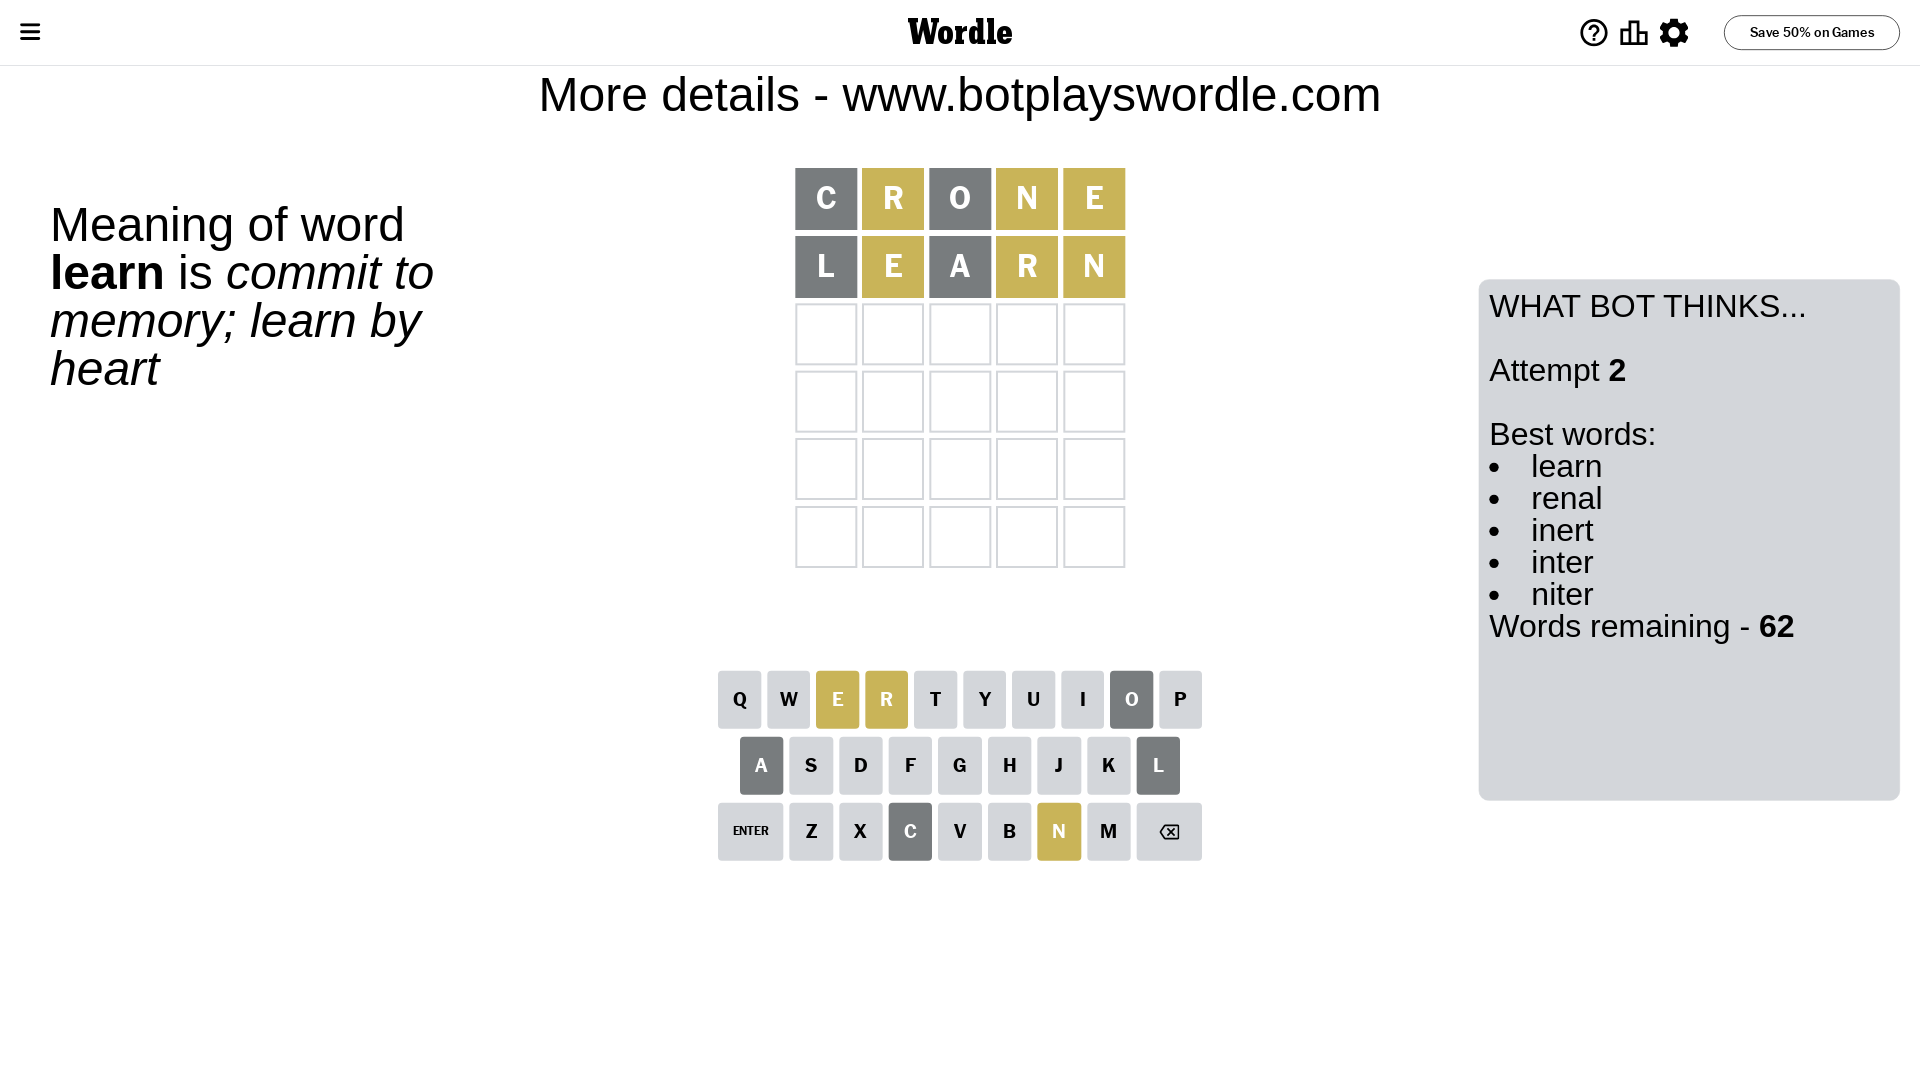
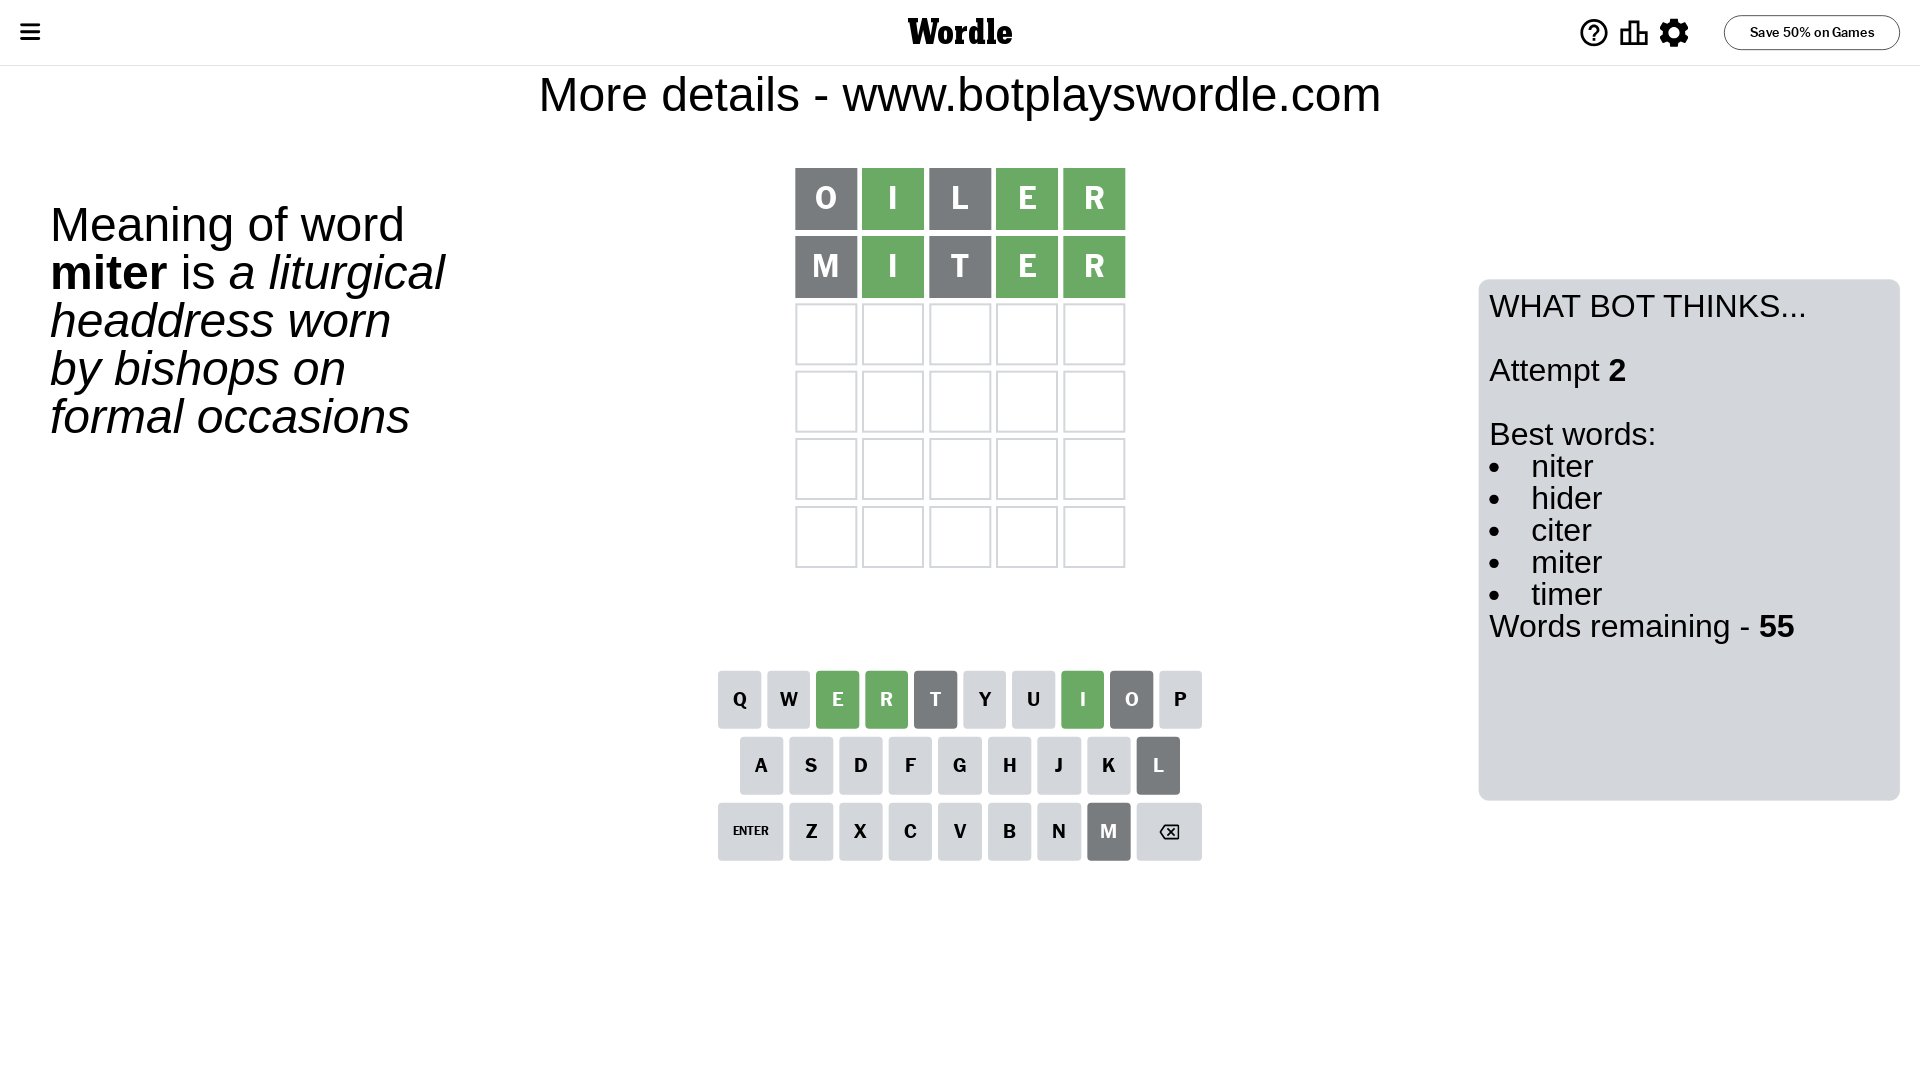
Upload new daily solution

diff --git a/_solutions/2023-06-29.md b/_solutions/2023-06-29.md
@@ -3,8 +3,8 @@ layout: solution
 title: Wordle for June 29, 2023 - \#740
 date: 2023-06-29
 solved: true
-attempts: 5
-video_link: https://youtu.be/7Ll31eo90gE
+attempts: 3
+video_link: https://youtu.be/fElTagjjyW4
 wordle_id: 740
 ---
 
@@ -14,103 +14,19 @@ wordle_id: 740
 
 This is the first attempt and we'll choose a random word to start with.
 
-Let's start with word `crone`
+Let's start with word `oiler`
 
 ![Attempt 1](2023-06-29/attempt-1.png)
 
-Attempt for `crone` gives us 0 correct letters, 3 present letters and 2 wrong letters.
+Attempt for `oiler` gives us 3 correct letters, 0 present letters and 2 wrong letters.
 
 If we look into details, we can see that:
-
-Letter `c` is not present in the word and we will not use it any more
-
-Letter `r` is on a different spot - this means that it cannot be at position 2
 
 Letter `o` is not present in the word and we will not use it any more
 
-Letter `n` is on a different spot - this means that it cannot be at position 4
-
-Letter `e` is on a different spot - this means that it cannot be at position 5
-
-Some letters are missing (like `c`, `o`) but it's also important piece of information
-
-Word should contain letters `[r n e]`
-
-That was a great guess that limited number of remaining words
-
-
-
-## Attempt 2
-
-Right now we have 62 words to choose from and best of them seem to be `[learn renal inert inter niter]`
-
-So far we know that possible letters are:
-
-At position 1: `[a b d e f g h i j k l m n p q r s t u v w x y z]`
-
-At position 2: `[a b d e f g h i j k l m n p q s t u v w x y z]`
-
-At position 3: `[a b d e f g h i j k l m n p q r s t u v w x y z]`
-
-At position 4: `[a b d e f g h i j k l m p q r s t u v w x y z]`
-
-At position 5: `[a b d f g h i j k l m n p q r s t u v w x y z]`
-
-Next guess is `learn`, let's see what it gives us
-
-![Attempt 2](2023-06-29/attempt-2.png)
-
-Attempt for `learn` gives us 0 correct letters, 3 present letters and 2 wrong letters.
-
-If we look into details, we can see that:
+Letter `i` should be at position 2
 
 Letter `l` is not present in the word and we will not use it any more
-
-Letter `e` is on a different spot - this means that it cannot be at position 2
-
-Letter `a` is not present in the word and we will not use it any more
-
-Letter `r` is on a different spot - this means that it cannot be at position 4
-
-Letter `n` is on a different spot - this means that it cannot be at position 5
-
-Some letters are missing (like `l`, `a`) but it's also important piece of information
-
-Word should contain letters `[r n e]`
-
-Could be a better guess
-
-
-
-## Attempt 3
-
-Right now we have 16 words to choose from and best of them seem to be `[inter niter tuner enter diner]`
-
-So far we know that possible letters are:
-
-At position 1: `[b d e f g h i j k m n p q r s t u v w x y z]`
-
-At position 2: `[b d f g h i j k m n p q s t u v w x y z]`
-
-At position 3: `[b d e f g h i j k m n p q r s t u v w x y z]`
-
-At position 4: `[b d e f g h i j k m p q s t u v w x y z]`
-
-At position 5: `[b d f g h i j k m p q r s t u v w x y z]`
-
-Next guess is `tuner`, let's see what it gives us
-
-![Attempt 3](2023-06-29/attempt-3.png)
-
-Attempt for `tuner` gives us 3 correct letters, 0 present letters and 2 wrong letters.
-
-If we look into details, we can see that:
-
-Letter `t` is not present in the word and we will not use it any more
-
-Letter `u` is not present in the word and we will not use it any more
-
-Letter `n` should be at position 3
 
 Letter `e` should be at position 4
 
@@ -118,63 +34,61 @@ Letter `r` should be at position 5
 
 We got information about the correct letters and it should make next attempt easier
 
-Some letters are missing (like `t`, `u`) but it's also important piece of information
+Some letters are missing (like `o`, `l`) but it's also important piece of information
 
-Word should contain letters `[r n e]`
+Word should contain letters `[i e r]`
 
-Could be a better guess
+That was a great guess that limited number of remaining words
 
 
 
-## Attempt 4
+## Attempt 2
 
-Right now we have 6 words to choose from and best of them seem to be `[diner miner piner finer viner]`
+Right now we have 55 words to choose from and best of them seem to be `[niter hider citer miter timer]`
 
 So far we know that possible letters are:
 
-At position 1: `[b d e f g h i j k m n p q r s v w x y z]`
+At position 1: `[a b c d e f g h i j k m n p q r s t u v w x y z]`
 
-At position 2: `[b d f g h i j k m n p q s v w x y z]`
+At position 2: `[i]`
 
-At position 3: `[n]`
+At position 3: `[a b c d e f g h i j k m n p q r s t u v w x y z]`
 
 At position 4: `[e]`
 
 At position 5: `[r]`
 
-Next guess is `miner`, let's see what it gives us
+Next guess is `miter`, let's see what it gives us
 
-![Attempt 4](2023-06-29/attempt-4.png)
+![Attempt 2](2023-06-29/attempt-2.png)
 
-Attempt for `miner` gives us 4 correct letters, 0 present letters and 1 wrong letters.
+Attempt for `miter` gives us 3 correct letters, 0 present letters and 2 wrong letters.
 
 If we look into details, we can see that:
 
 Letter `m` is not present in the word and we will not use it any more
 
-Letter `i` should be at position 2
+Letter `t` is not present in the word and we will not use it any more
 
-We got information about the correct letters and it should make next attempt easier
+Some letters are missing (like `m`, `t`) but it's also important piece of information
 
-Some letters are missing (like `m`) but it's also important piece of information
-
-Word should contain letters `[r n e i]`
+Word should contain letters `[i e r]`
 
 This was a waste, almost no valuable information...
 
 
 
-## Attempt 5
+## Attempt 3
 
-Right now we have 4 words to choose from and best of them seem to be `[diner piner finer viner]`
+Right now we have 39 words to choose from and best of them seem to be `[hider piner finer viner aider]`
 
 So far we know that possible letters are:
 
-At position 1: `[b d e f g h i j k n p q r s v w x y z]`
+At position 1: `[a b c d e f g h i j k n p q r s u v w x y z]`
 
 At position 2: `[i]`
 
-At position 3: `[n]`
+At position 3: `[a b c d e f g h i j k n p q r s u v w x y z]`
 
 At position 4: `[e]`
 
@@ -182,11 +96,13 @@ At position 5: `[r]`
 
 Next guess is `diner`, let's see what it gives us
 
-![Attempt 5](2023-06-29/attempt-5.png)
+![Attempt 3](2023-06-29/attempt-3.png)
 
 That's the correct answer! The word is `diner`!
 
+To be honest that was a pretty lucky guess, but it worked out well.
+
 ## Conclusion
 
-Today's word is `diner` and it took 5 attempts to guess it
+Today's word is `diner` and it took 3 attempts to guess it
 
